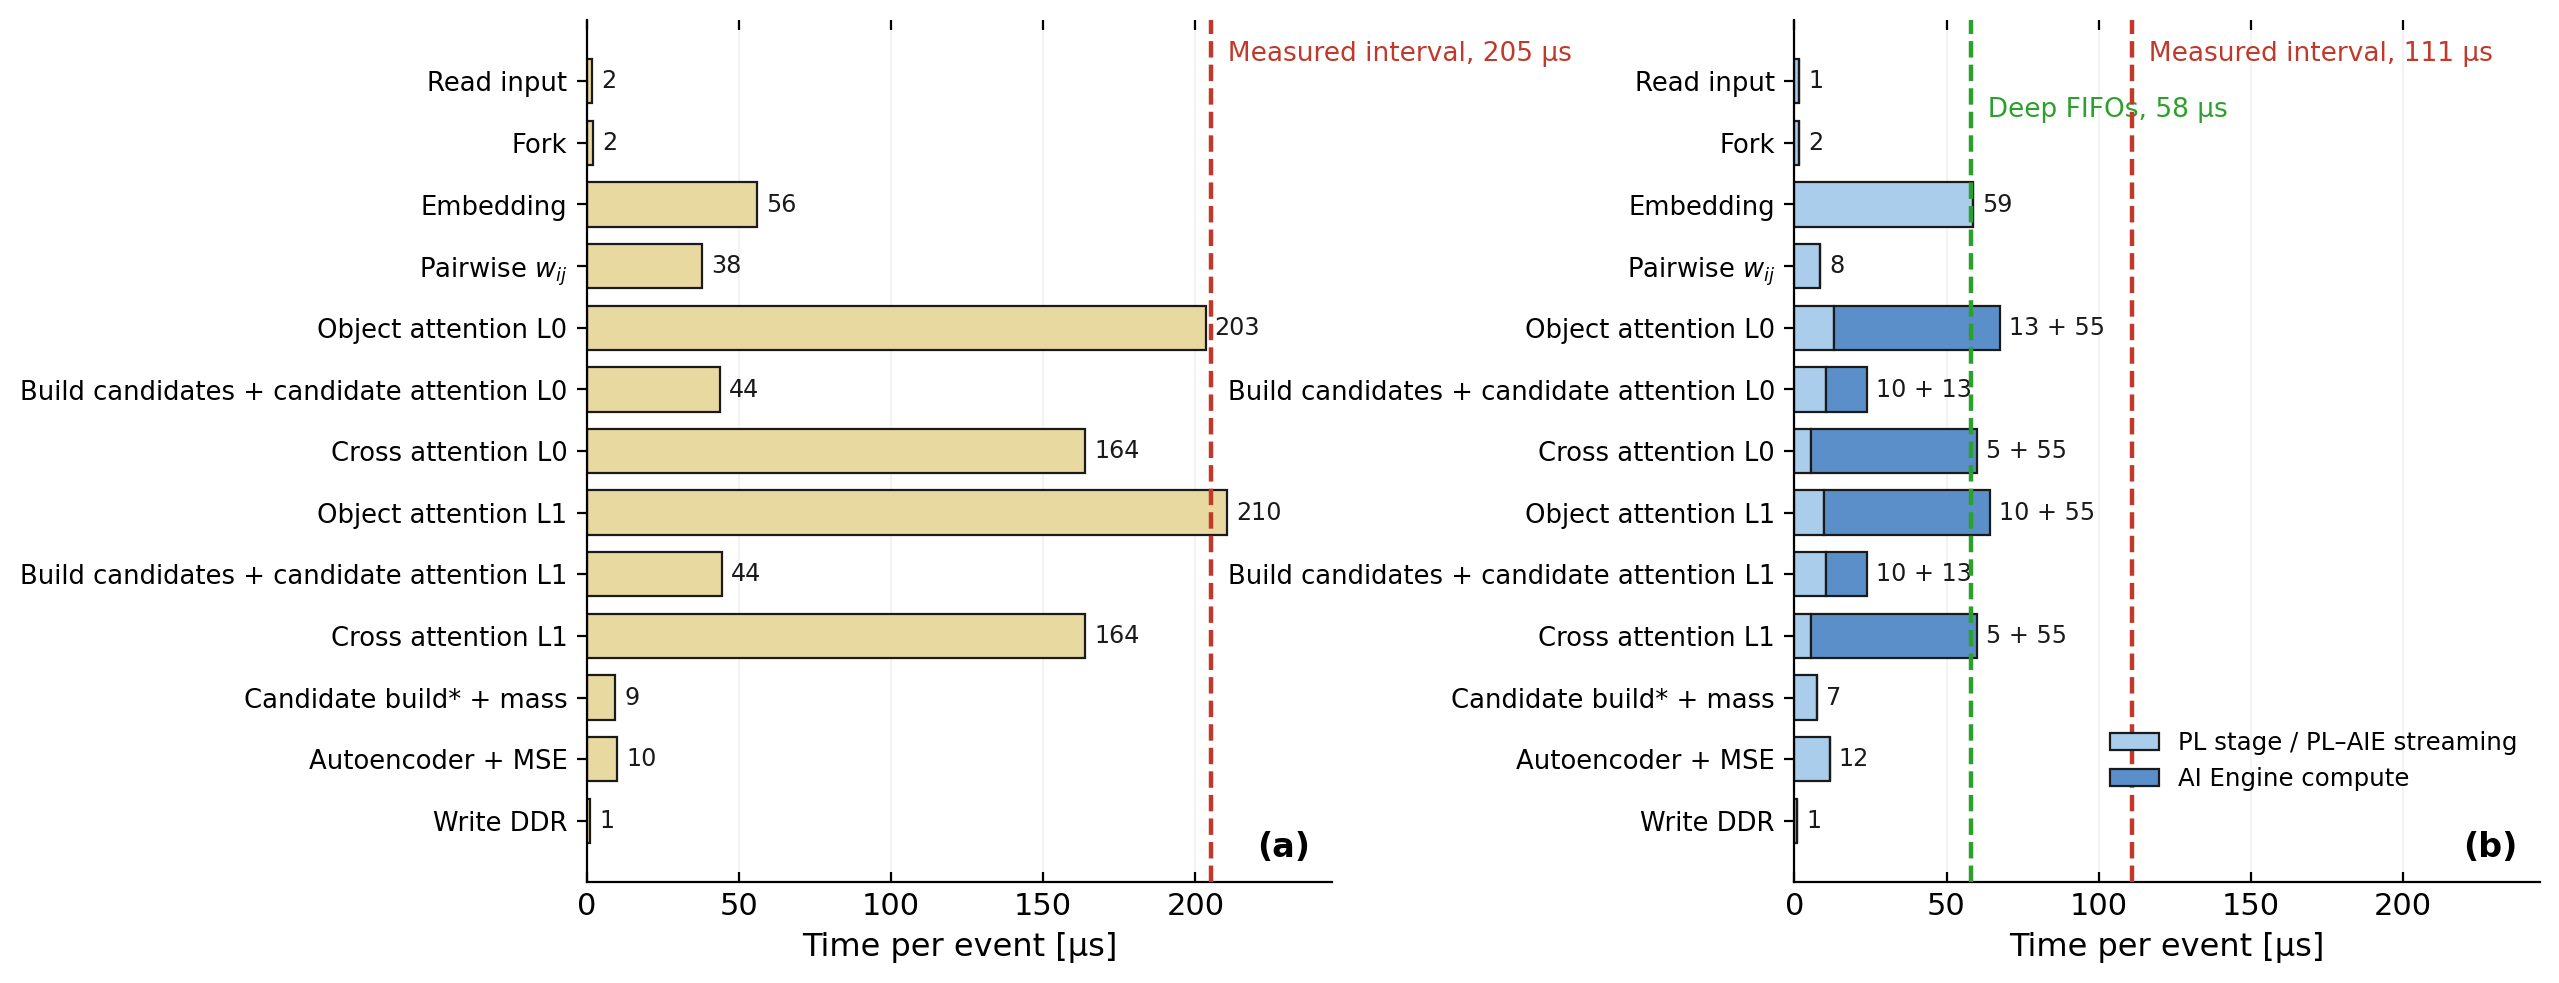
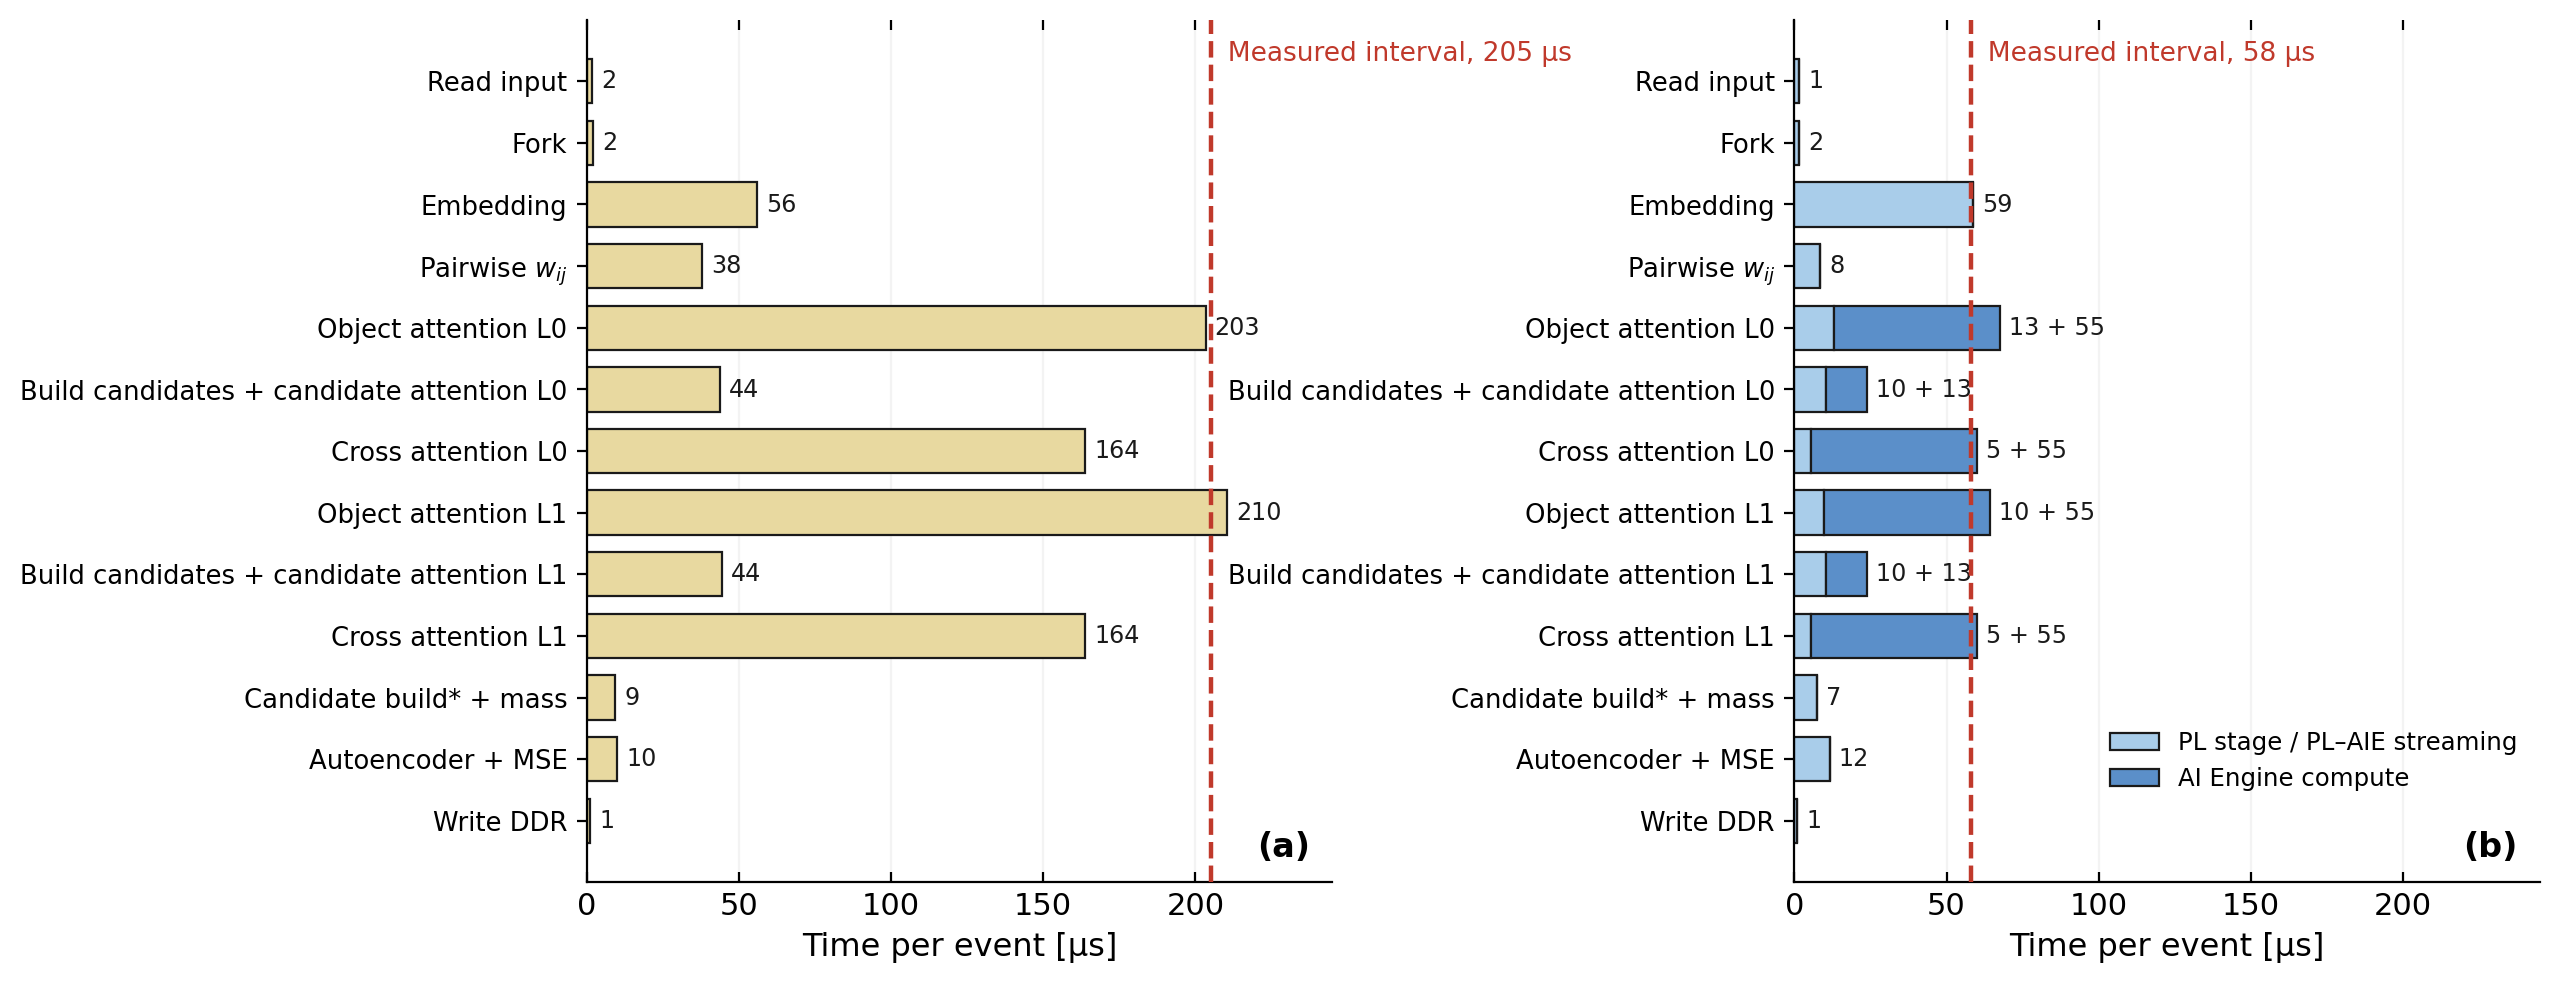
figs: hybrid stage panel shows the deep-FIFO interval only, in red
The 111 us shallow-FIFO interval was a buffering artefact, not a stage
property; the deep-FIFO 58 us is the interval this stage table predicts.

Changed region(s): [[0.7718, 0.0305, 0.957, 0.061], [0.7718, 0.0916, 0.8644, 0.1221]]

diff --git a/scripts/make_latency_and_stage_charts.py b/scripts/make_latency_and_stage_charts.py
@@ -93,15 +93,12 @@ axc.barh(y, ha, left=hp, color=AIE_DARK, edgecolor=INK, linewidth=0.8, height=0.
 for yy, p, a in zip(y, hp, ha):
     axc.text(p + a + 3, yy, f"{p+a:.0f}" if a == 0 else f"{p:.0f} + {a:.0f}", va="center", fontsize=8.6, color=INK)
 
-for ax, meas, letter in ((axb, fits["PL-only"], "(a)"), (axc, fits["AIE-PL hybrid"], "(b)")):
+# hybrid panel: the deep-FIFO build's interval (the pipeline with enough buffering
+# for its stages to overlap); the shallow-FIFO 111 us is a buffering artefact
+for ax, meas, letter in ((axb, fits["PL-only"], "(a)"), (axc, fits["AIE-PL hybrid, deep FIFOs"], "(b)")):
     ax.axvline(meas, color="#c0392b", ls="--", lw=1.6, zorder=5)
     ax.text(meas, len(labs) - 0.35, f"  Measured interval, {meas:.0f} µs", color="#c0392b",
             fontsize=9.5, va="top", ha="left")
-    if ax is axc:
-        deep = fits["AIE-PL hybrid, deep FIFOs"]
-        ax.axvline(deep, color="#2ca02c", ls="--", lw=1.6, zorder=5)
-        ax.text(deep, len(labs) - 1.25, f"  Deep FIFOs, {deep:.0f} µs", color="#2ca02c",
-                fontsize=9.5, va="top", ha="left")
     ax.set_yticks(y); ax.set_yticklabels(labs, fontsize=9.3)
     ax.set_xlabel("Time per event [µs]", fontsize=11.5)
     ax.set_xlim(0, 245)
